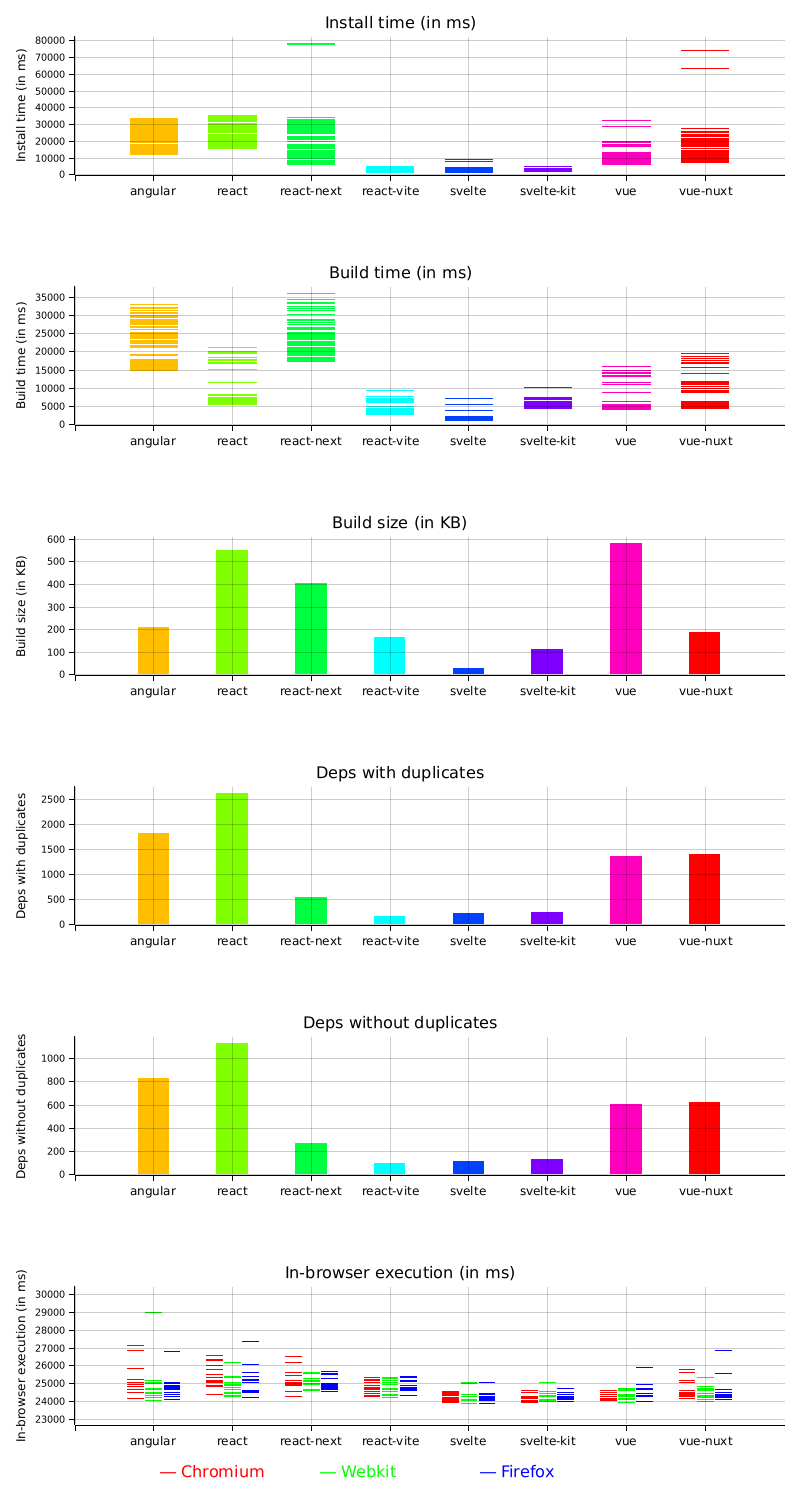
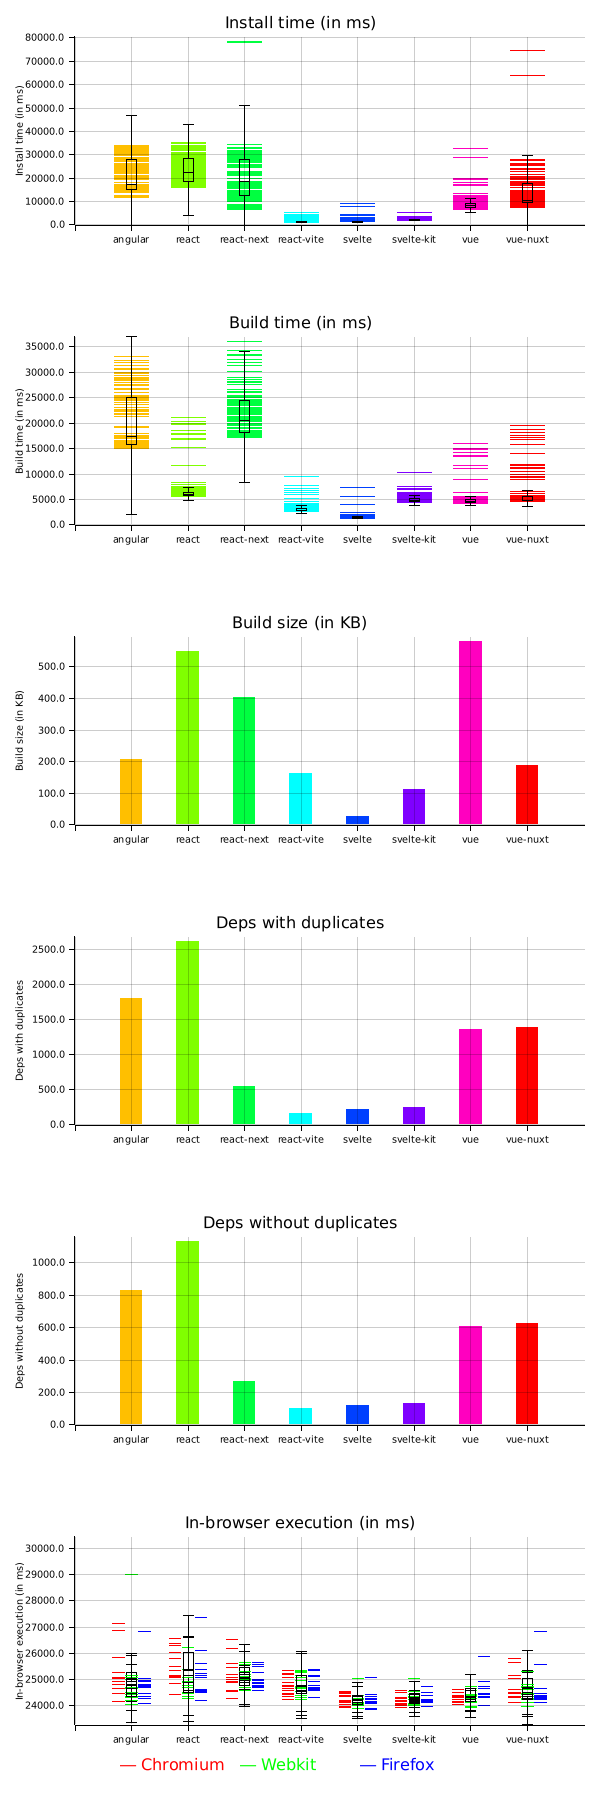
Finish with boxplots

diff --git a/graphs/src/main.rs b/graphs/src/main.rs
@@ -25,7 +25,7 @@ use plotters::style::IntoFont;
 use plotters::style::Color;
 use serde::Deserialize;
 
-const OUT_IMG_SIZE: (u32, u32) = (800, 1500);
+const OUT_IMG_SIZE: (u32, u32) = (600, 1800);
 
 type RecordsMap = Vec<(String, Vec<CsvRecord>)>;
 
@@ -60,21 +60,21 @@ enum PointDisplayType {
 
 #[derive(Debug)]
 struct Means {
-    min: i32,
-    q1: i32,
-    median: i32,
-    q3: i32,
-    max: i32,
+    min: f32,
+    q1: f32,
+    median: f32,
+    q3: f32,
+    max: f32,
 }
 
 impl Means {
-    fn to_vec(&self) -> Vec<i32> {
+    fn to_vec(&self) -> Vec<f64> {
         vec![
-            self.min,
-            self.q1,
-            self.median,
-            self.q3,
-            self.max,
+            self.min as f64,
+            self.q1 as f64,
+            self.median as f64,
+            self.q3 as f64,
+            self.max as f64,
         ]
     }
 }
@@ -83,14 +83,14 @@ impl Means {
 struct CsvRecord {
     #[serde(skip_deserializing)]
     index: i32,
-    install_time: i32,
-    build_time: i32,
-    deps_with_duplicates: i32,
-    deps_without_duplicates: i32,
-    build_size: i32,
-    chromium: i32,
-    firefox: i32,
-    webkit: i32,
+    install_time: f32,
+    build_time: f32,
+    deps_with_duplicates: f32,
+    deps_without_duplicates: f32,
+    build_size: f32,
+    chromium: f32,
+    firefox: f32,
+    webkit: f32,
 }
 
 fn main() {
@@ -134,11 +134,11 @@ fn main() {
 
     let roots = root.split_evenly((6, 1));
 
-    create_chart(&roots.get(0).unwrap(), &records_map, max_x, 0, maximums.install_time, PointDisplayType::HorizontalLine, ChartType::InstallTime, ShowMeans::True);
-    create_chart(&roots.get(1).unwrap(), &records_map, max_x, 0, maximums.build_time, PointDisplayType::HorizontalLine, ChartType::BuildTime, ShowMeans::True);
-    create_chart(&roots.get(2).unwrap(), &records_map, max_x, 0, maximums.build_size, PointDisplayType::Bar, ChartType::BuildSize, ShowMeans::False);
-    create_chart(&roots.get(3).unwrap(), &records_map, max_x, 0, maximums.deps_with_duplicates, PointDisplayType::Bar, ChartType::DepsWithDuplicates, ShowMeans::False);
-    create_chart(&roots.get(4).unwrap(), &records_map, max_x, 0, maximums.deps_without_duplicates, PointDisplayType::Bar, ChartType::DepsWithoutDuplicates, ShowMeans::False);
+    create_chart(&roots.get(0).unwrap(), &records_map, max_x, 0.0, maximums.install_time, PointDisplayType::HorizontalLine, ChartType::InstallTime, ShowMeans::True);
+    create_chart(&roots.get(1).unwrap(), &records_map, max_x, 0.0, maximums.build_time, PointDisplayType::HorizontalLine, ChartType::BuildTime, ShowMeans::True);
+    create_chart(&roots.get(2).unwrap(), &records_map, max_x, 0.0, maximums.build_size, PointDisplayType::Bar, ChartType::BuildSize, ShowMeans::False);
+    create_chart(&roots.get(3).unwrap(), &records_map, max_x, 0.0, maximums.deps_with_duplicates, PointDisplayType::Bar, ChartType::DepsWithDuplicates, ShowMeans::False);
+    create_chart(&roots.get(4).unwrap(), &records_map, max_x, 0.0, maximums.deps_without_duplicates, PointDisplayType::Bar, ChartType::DepsWithoutDuplicates, ShowMeans::False);
     create_browser_chart(&roots.get(5).unwrap(), &records_map, max_x, maximums);
 
     // To avoid the IO failure being ignored silently, we manually call the present function
@@ -151,28 +151,36 @@ fn main() {
 fn get_means_from_records(records: &Vec<CsvRecord>, data_type: ChartType) -> Means {
     let mut filtered: Vec<i32> = records.iter().map(|record| {
         match data_type {
-            ChartType::InstallTime => record.install_time,
-            ChartType::BuildTime => record.build_time,
-            ChartType::DepsWithDuplicates => record.deps_with_duplicates,
-            ChartType::DepsWithoutDuplicates => record.deps_without_duplicates,
-            ChartType::BuildSize => record.build_size,
-            ChartType::Chromium => record.chromium,
-            ChartType::Firefox => record.firefox,
-            ChartType::Webkit => record.webkit,
+            ChartType::InstallTime => record.install_time as i32,
+            ChartType::BuildTime => record.build_time as i32,
+            ChartType::DepsWithDuplicates => record.deps_with_duplicates as i32,
+            ChartType::DepsWithoutDuplicates => record.deps_without_duplicates as i32,
+            ChartType::BuildSize => record.build_size as i32,
+            ChartType::Chromium => record.chromium as i32,
+            ChartType::Firefox => record.firefox as i32,
+            ChartType::Webkit => record.webkit as i32,
         }
     })
+        .filter(|value| value > &0)
         .collect();
     filtered.sort();
 
     let sorted = filtered;
     let len = sorted.len();
 
+    let q1 = sorted.get(len / 4).unwrap().clone() as f32;
+    let q3 = sorted.get(len * 3 / 4).unwrap().clone() as f32;
+    let iqr = q3 - q1;
+    let min = q1 - iqr * 1.5;
+    let max = q3 + iqr * 1.5;
+    let median = sorted.get(len / 2).unwrap().clone() as f32;
+
     Means {
-        min: sorted.first().unwrap().clone(),
-        q1: sorted.get((len / 4) as usize).unwrap().clone() as i32,
-        median: sorted.get((len / 2) as usize).unwrap().clone() as i32,
-        q3: sorted.get((len * 3 / 4) as usize).unwrap().clone() as i32,
-        max: sorted.last().unwrap().clone(),
+        min,
+        q1,
+        median,
+        q3,
+        max,
     }
 }
 
@@ -228,14 +236,14 @@ fn get_csv_records(output_dir: String) -> RecordsMap {
 fn get_maximums(records_map: &RecordsMap) -> CsvRecord {
     let mut maximums = CsvRecord {
         index: 0,
-        install_time: 0,
-        build_time: 0,
-        deps_with_duplicates: 0,
-        deps_without_duplicates: 0,
-        build_size: 0,
-        chromium: 0,
-        firefox: 0,
-        webkit: 0,
+        install_time: 0.0,
+        build_time: 0.0,
+        deps_with_duplicates: 0.0,
+        deps_without_duplicates: 0.0,
+        build_size: 0.0,
+        chromium: 0.0,
+        firefox: 0.0,
+        webkit: 0.0,
     };
 
     for (_chart_name, records) in records_map.iter() {
@@ -274,8 +282,8 @@ fn create_chart(
     root: &DrawingArea<BitMapBackend, Shift>,
     csv_records: &RecordsMap,
     max_x: i32,
-    min_y: i32,
-    max_y: i32,
+    min_y: f32,
+    max_y: f32,
     point_display_type: PointDisplayType,
     chart_type: ChartType,
     show_means: ShowMeans
@@ -291,7 +299,7 @@ fn create_chart(
     let min_x: i32 = 0;
 
     // Add 5% to max Y to allow the chart to breathe on the top
-    let max_y = (max_y as f32 * 1.05) as i32;
+    let max_y = max_y * 1.025;
 
     let number_of_apps = csv_records.len() as f64;
 
@@ -341,11 +349,11 @@ fn create_chart(
             PointDisplayType::Bar => {
                 chart.draw_series(
                     records.iter()
-                        .filter(|record| value_function(record) > 0)
+                        .filter(|record| value_function(record) > 0.0)
                         .map(|record| {
                             let y_value = value_function(record);
                             Rectangle::new([
-                               (x_coords_multiplier * record.index - 2, 0),
+                               (x_coords_multiplier * record.index - 2, 0.0),
                                (x_coords_multiplier * record.index + 2, y_value),
                            ], color.clone())
                         })
@@ -355,7 +363,7 @@ fn create_chart(
             PointDisplayType::HorizontalLine => {
                 chart.draw_series(
                     records.iter()
-                        .filter(|record| value_function(record) > 0)
+                        .filter(|record| value_function(record) > 0.0)
                         .map(|record| {
                         let y_value = value_function(record);
                         PathElement::new(vec![
@@ -376,8 +384,7 @@ fn create_chart(
             let means = get_means_from_records(&records, chart_type);
             let means_vec = means.to_vec();
             let quartiles = Quartiles::new(&means_vec);
-            // let boxplot = Boxplot::new_horizontal(index, &quartiles);
-            let boxplot = Boxplot::new_vertical(index, &quartiles);
+            let boxplot = Boxplot::new_vertical(index * x_coords_multiplier, &quartiles);
             chart.draw_series(vec![boxplot]).unwrap();
         }
 
@@ -397,7 +404,7 @@ fn create_chart(
             "".into()
         })
         .y_desc(chart_title)
-        .x_label_style(("sans-serif", 15))
+        .x_label_style(("sans-serif", 12))
         .set_all_tick_mark_size(5)
         .draw()
         .unwrap()
@@ -420,21 +427,21 @@ fn create_browser_chart(
     x_key_points.push(x_key_points.last().unwrap() + x_coords_multiplier);
     let min_x: i32 = 0;
 
-    let mut min_y = i32::MAX;
+    let mut min_y = f32::MAX;
     for (_, records) in csv_records.iter() {
         for record in records.iter() {
-            if min_y > record.firefox && record.firefox > 0 {
+            if min_y > record.firefox && record.firefox > 0.0 {
                 min_y = record.firefox;
             }
-            if min_y > record.chromium && record.chromium > 0 {
+            if min_y > record.chromium && record.chromium > 0.0 {
                 min_y = record.chromium;
             }
-            if min_y > record.webkit && record.webkit > 0 {
+            if min_y > record.webkit && record.webkit > 0.0 {
                 min_y = record.webkit;
             }
         }
     }
-    let min_y = (min_y as f32 * 0.95) as i32;
+    let min_y = min_y * 0.975;
 
     let mut max_y = maximums.chromium;
     if maximums.firefox > max_y {
@@ -444,8 +451,7 @@ fn create_browser_chart(
         max_y = maximums.webkit;
     }
 
-    // Add 5% to max Y to allow the chart to breathe on the top
-    let max_y = (max_y as f32 * 1.05) as i32;
+    let max_y = max_y * 1.05;
 
     let chart_title = "In-browser execution (in ms)";
 
@@ -454,7 +460,7 @@ fn create_browser_chart(
 
     root.draw_text("― Chromium", &TextStyle::from(("sans-serif", 20).into_font()).color(&HSLColor(0.0, 1.0, 0.5)), (x_label_position.clone(), y_label_position.clone())).unwrap();
     root.draw_text("― Webkit", &TextStyle::from(("sans-serif", 20).into_font()).color(&HSLColor(0.333, 1.0, 0.5)), (x_label_position.clone() * 2, y_label_position.clone())).unwrap();
-    root.draw_text("― Firefox", &TextStyle::from(("sans-serif", 20).into_font()).color(&HSLColor(0.666, 1.0, 0.5)), (x_label_position.clone() * 3, y_label_position.clone())).unwrap();
+    root.draw_text("― Firefox", &TextStyle::from(("sans-serif", 20).into_font()).color(&HSLColor(0.666, 1.0, 0.75)), (x_label_position.clone() * 3, y_label_position.clone())).unwrap();
 
     let mut chart = ChartBuilder::on(&root)
         .x_label_area_size(60)
@@ -473,42 +479,63 @@ fn create_browser_chart(
     iter.sort_by(|a, b| a.0.cmp(&b.0));
 
     for (_chart_name, records) in iter {
+        let mut firefox_index = 0;
+        let mut chromium_index = 0;
+        let mut webkit_index = 0;
 
         chart.draw_series(
             records.iter()
-                .filter(|record| record.chromium > 0)
+                .filter(|record| record.chromium > 0.0)
                 .map(|record| {
-                PathElement::new(vec![
-                    (x_coords_multiplier * record.index - 10 - 23, record.chromium),
-                    (x_coords_multiplier * record.index + 10 - 23, record.chromium),
-                ], HSLColor(0.0, 1.0, 0.5).filled().stroke_width(0))
-            })
-        )
-            .unwrap();
-
-        chart.draw_series(
-            records.iter()
-                .filter(|record| record.webkit > 0)
-                .map(|record| {
-                PathElement::new(vec![
-                    (x_coords_multiplier * record.index - 10, record.webkit),
-                    (x_coords_multiplier * record.index + 10, record.webkit),
-                ], HSLColor(0.333, 1.0, 0.5).filled().stroke_width(0))
-            })
-        )
-            .unwrap();
-
-        chart.draw_series(
-            records.iter()
-                .filter(|record| record.firefox > 0)
-                .map(|record| {
+                    if chromium_index == 0 { chromium_index = record.index; }
                     PathElement::new(vec![
-                        (x_coords_multiplier * record.index - 10 + 23, record.firefox),
-                        (x_coords_multiplier * record.index + 10 + 23, record.firefox),
-                    ], HSLColor(0.666, 1.0, 0.5).filled().stroke_width(0))
+                        (x_coords_multiplier * record.index - 5 - 23, record.chromium),
+                        (x_coords_multiplier * record.index + 5 - 23, record.chromium),
+                    ], HSLColor(0.0, 1.0, 0.5).filled().stroke_width(0))
                 })
         )
             .unwrap();
+        let means = get_means_from_records(&records, ChartType::Chromium);
+        let means_vec = means.to_vec();
+        let quartiles = Quartiles::new(&means_vec);
+        let boxplot = Boxplot::new_vertical(chromium_index * x_coords_multiplier - 23, &quartiles);
+        chart.draw_series(vec![boxplot]).unwrap();
+
+        chart.draw_series(
+            records.iter()
+                .filter(|record| record.webkit > 0.0)
+                .map(|record| {
+                    if webkit_index == 0 { webkit_index = record.index; }
+                    PathElement::new(vec![
+                        (x_coords_multiplier * record.index - 5, record.webkit),
+                        (x_coords_multiplier * record.index + 5, record.webkit),
+                    ], HSLColor(0.333, 1.0, 0.5).filled().stroke_width(0))
+                })
+        )
+            .unwrap();
+        let means = get_means_from_records(&records, ChartType::Webkit);
+        let means_vec = means.to_vec();
+        let quartiles = Quartiles::new(&means_vec);
+        let boxplot = Boxplot::new_vertical(webkit_index * x_coords_multiplier, &quartiles);
+        chart.draw_series(vec![boxplot]).unwrap();
+
+        chart.draw_series(
+            records.iter()
+                .filter(|record| record.firefox > 0.0)
+                .map(|record| {
+                    if firefox_index == 0 { firefox_index = record.index; }
+                    PathElement::new(vec![
+                        (x_coords_multiplier * record.index - 5 + 23, record.firefox),
+                        (x_coords_multiplier * record.index + 5 + 23, record.firefox),
+                    ], HSLColor(0.666, 1.0, 0.75).filled().stroke_width(0))
+                })
+        )
+            .unwrap();
+        let means = get_means_from_records(&records, ChartType::Firefox);
+        let means_vec = means.to_vec();
+        let quartiles = Quartiles::new(&means_vec);
+        let boxplot = Boxplot::new_vertical(firefox_index * x_coords_multiplier + 23, &quartiles);
+        chart.draw_series(vec![boxplot]).unwrap();
     }
 
     chart
@@ -525,7 +552,7 @@ fn create_browser_chart(
             "".into()
         })
         .y_desc(chart_title)
-        .x_label_style(("sans-serif", 15))
+        .x_label_style(("sans-serif", 12))
         .set_all_tick_mark_size(5)
         .draw()
         .unwrap()
